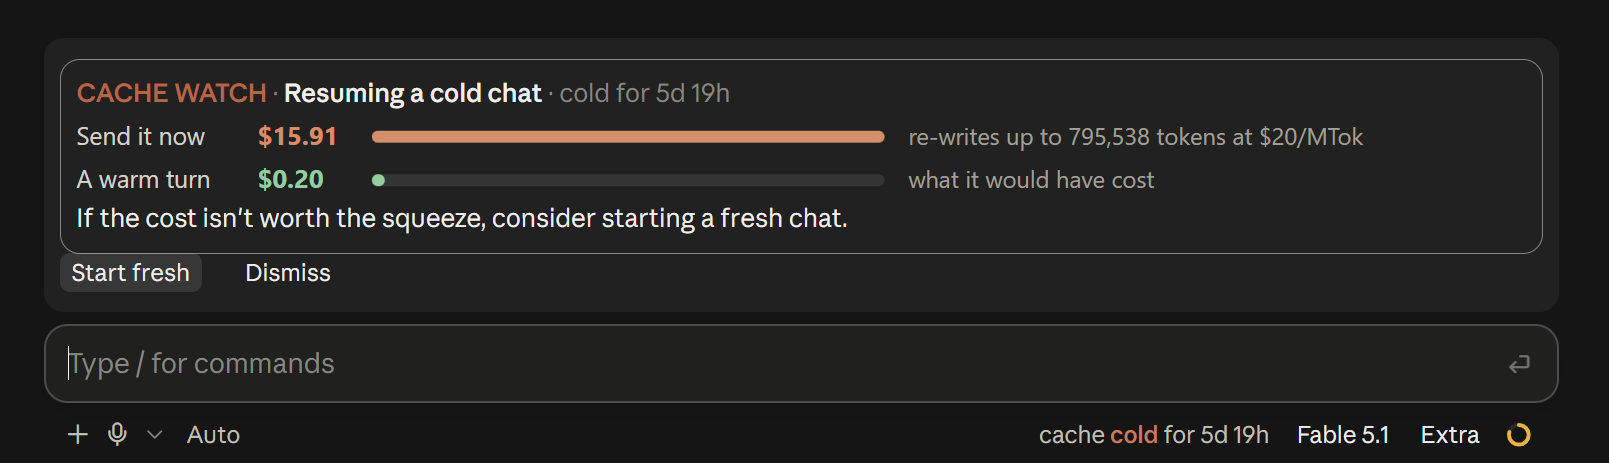
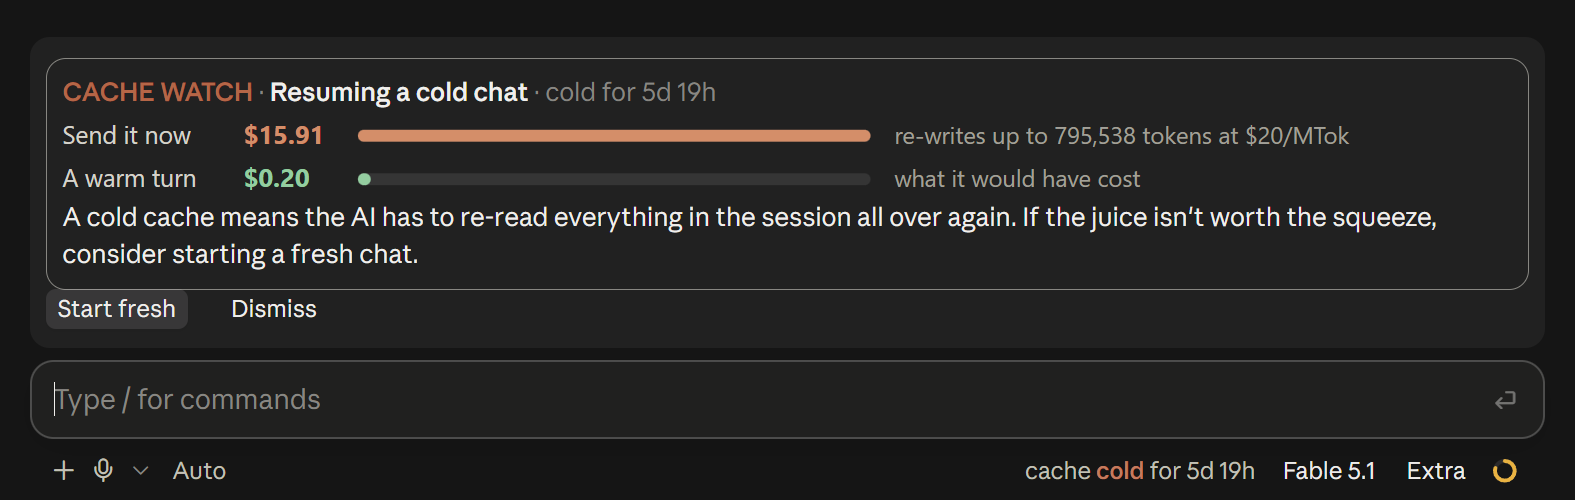
README: captions above the screenshots, and the receipt

diff --git a/README.md b/README.md
@@ -4,21 +4,25 @@ A Claude Code mod that watches your prompt cache, so a message to an old convers
 
 It shows whether the cache is warm or cold in the prompt footer. When a send would re-write a cold cache, it holds the message and shows you the price first. And it can keep the cache warm while you're away. It's a fork of Karan Bansal's [cache-tax](https://github.com/karanb192/cache-tax), reworked for the Claude desktop app.
 
+The footer while the cache is warm, with how long it has left before it goes cold:
+
 ![The prompt footer reading "cache warm · 54m left" in green, next to the model picker](docs/images/footer-warm.png)
 
-The footer while the cache is warm: how long it has left before it goes cold.
+The same footer once the cache has gone cold:
 
 ![The prompt footer reading "cache cold for 5d 20h" in orange](docs/images/footer-cold.png)
 
-The same footer once the cache has gone cold.
+Opening a 795k-token chat that went cold almost a week ago. The card shows what your first message will cost before you type anything:
 
 ![The resume card above the prompt box: "Resuming a cold chat", cold for 5d 19h, Send it now $15.91 against A warm turn $0.20, the tip about starting fresh, and the Start fresh and Dismiss buttons](docs/images/resume-card.png)
 
-Opening a 795k-token chat that went cold almost a week ago. The card shows what your first message will cost before you type anything.
+Sending to a 442k-token conversation that went cold days ago. The message waits on a card until you choose:
 
 ![The hold card above the prompt box: "Your message is on hold", Send it now $4.43 against A warm turn $0.22, the held message, and the Pay and send, Start fresh and Show cache status buttons](docs/images/hold-card.png)
 
-Sending to a 442k-token conversation that went cold days ago. The message waits on a card until you choose.
+After a cold write is paid, a receipt says what it cost, and keepwarm holds the cache for 3 hours. This message had an `@file` mention, so it couldn't be held and went straight through:
+
+![The receipt above the prompt box, with a shield icon: "Cold write paid: $1.15 for 115k tokens. Keepwarm holds the cache for 3h00m.", then in dim text why the message went straight through, and "/keepwarm off to stop"](docs/images/receipt.png)
 
 ## What it does
 
@@ -34,13 +38,17 @@ The only request cache-watch makes of its own is the keepwarm ping: a one-line q
 
 ### Keepwarm in action
 
+Type `/keepwarm` and the command menu says what it takes:
+
 ![Typing /keepwarm in the prompt box: the command menu shows keepwarm and its description, while the footer reads "cache warm · 47m left"](docs/images/keepwarm-menu.png)
 
-Type `/keepwarm` and the command menu says what it takes: nothing for 6 hours, a window such as `90m`, `always`, `off` or `status`. Before you arm it, the footer counts down the cache's own hour: 47 minutes left here.
+That's nothing for 6 hours, a window such as `90m`, `always`, `off` or `status`. Before you arm it, the footer counts down the cache's own hour: 47 minutes left here.
+
+`/keepwarm 6h` arms a six-hour window:
 
 ![After sending /keepwarm 6h, the reply reads "keepwarm on for 6h00m, a ping 55m after each idle stretch keeps the cache read, not re-written", and the footer reads "cache warm · 6h00m left"](docs/images/keepwarm-on.png)
 
-`/keepwarm 6h` arms a six-hour window. The reply confirms it, and the footer switches from the cache's hour to the window's time: 6h00m left. From here, every time you go quiet for 55 minutes, a ping keeps the cache warm until the window runs out.
+The reply confirms it, and the footer switches from the cache's hour to the window's time: 6h00m left. From here, every time you go quiet for 55 minutes, a ping keeps the cache warm until the window runs out.
 
 ## Install
 
